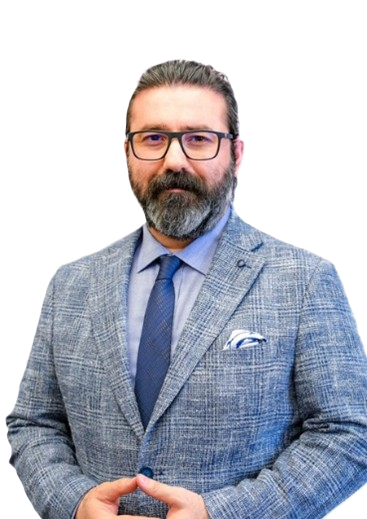
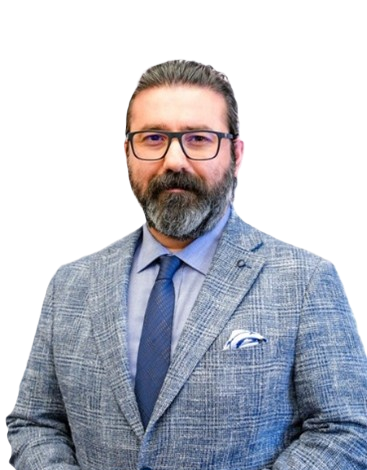
changed social links in the footer + minor changes

diff --git a/partners.html b/partners.html
@@ -175,7 +175,7 @@
                 <div class="partner-card" data-partner="padova">
                     <div class="partner-card-header">
                         <div class="partner-card-logo">
-                            <img src="images/partners/padova logo only.png" alt="University of Padova">
+                            <img src="images/partners/padova logo crop.png" alt="University of Padova">
                         </div>
                         <div class="partner-card-title">
                             <h3>University of Padova</h3>
@@ -508,8 +508,10 @@
                                         <div class="member-bio">
                                             <h5>Prof. M. Sami Okumus</h5>
                                             <!--<p>Assoc. Prof. Dr. M. Sami Okumus is an academic and filmmaker working at the intersection of communication theory and visual storytelling. He holds a BA in Public Relations from Istanbul Bilgi University (2011) and an MA (2016) and PhD (2020) in Radio, Television, and Cinema from Marmara University. Since 2017, he has been a faculty member at Marmara University, combining research and administrative roles with professional work as a producer/director in cinema and documentary. Within Edu-GArD3n, he leads Media Studies for the Marmara University partner team, overseeing visual communication and design to translate project outcomes into engaging, globally accessible media content.</p>-->
-                                            <p>Assoc. Prof. Dr. M. Sami Okumus is an academic and filmmaker working at the intersection of communication theory and visual storytelling. He holds a BA in Public Relations from Istanbul Bilgi University (2011) and an MA (2016) and PhD (2020) in Radio, Television, and Cinema from Marmara University. Since 2017, he has been a faculty member at Marmara University, combining academic research and administrative roles with professional work as a producer and director in cinema and documentary filmmaking.<br>
-                                                Within the Edu-GArD3n project, he leads Media Studies and Visual Communication Design for the Marmara University partner team, overseeing the strategic development of visual communication to translate complex scientific outputs into engaging, visually effective, and globally accessible media content.</p>
+                                            <!--<p>Assoc. Prof. Dr. M. Sami Okumus is an academic and filmmaker working at the intersection of communication theory and visual storytelling. He holds a BA in Public Relations from Istanbul Bilgi University (2011) and an MA (2016) and PhD (2020) in Radio, Television, and Cinema from Marmara University. Since 2017, he has been a faculty member at Marmara University, combining academic research and administrative roles with professional work as a producer and director in cinema and documentary filmmaking.<br>
+                                                Within the Edu-GArD3n project, he leads Media Studies and Visual Communication Design for the Marmara University partner team, overseeing the strategic development of visual communication to translate complex scientific outputs into engaging, visually effective, and globally accessible media content.</p>-->
+                                            <p>Okumus is an academic (Ph.D. in television, docent in cinema), film producer, and director specializing in cinema and documentary filmmaking, who bridges the gap between communication theory and creative practice as the lead of media studies, and visual communication design in the Edu-GArD3n project.
+                                                He oversees the strategic development of visual communication and design, ensuring the project’s objectives are effectively translated into impactful media content that the project’s outputs are not only scientifically sound but also visually engaging for a global audience. His work harmonizes complex academic data with clear, fostering greater engagement with the project’s green initiatives.</p>
                                         </div>
                                     </div>
                                     <div class="member-details">
@@ -613,8 +615,8 @@
         <div class="container">
             <div class="footer-top">
                 <div class="social-links">
-                    <a href="https://www.instagram.com/" target="_blank" rel="noopener noreferrer" aria-label="Instagram" class="instagram"><img src="images/instagram.png" alt="Instagram"></a>
-                    <a href="https://www.linkedin.com/" target="_blank" rel="noopener noreferrer" aria-label="LinkedIn" class="linkedin"><img src="images/linkedin_white.png" alt="LinkedIn"></a>
+                    <a href="https://www.instagram.com/edugard3n/" target="_blank" rel="noopener noreferrer" aria-label="Instagram" class="instagram"><img src="images/instagram.png" alt="Instagram"></a>
+                    <a href="https://www.linkedin.com/company/edu-gard3n/" target="_blank" rel="noopener noreferrer" aria-label="LinkedIn" class="linkedin"><img src="images/linkedin_white.png" alt="LinkedIn"></a>
                 </div>
                 <div class="funded">
                     <!-- EU funding band with flag
@@ -761,7 +763,7 @@
                     {
                         name: 'University of Padova',
                         coords: [45.4064, 11.8768],
-                        logo: 'images/partners/padova logo only.png',
+                        logo: 'images/partners/padova logo crop.png',
                         rotation: 0
                     },
                     {

diff --git a/index.html b/index.html
@@ -149,7 +149,7 @@
                     <div class="photo-wrapper">
                         <img src="images/people/Roman Perez Antonanzas.png" alt="Román Pérez Antoñanzas">
                         <div class="bio">
-                            <h4>Dr. Román Pérez Antoñanzas</h4>
+                            <h4>Prof. Román Pérez Antoñanzas</h4>
                             <p>As a result of Edu-GArD3n, new insights on how additive manufacturing supports waste reduction and sustainability will be taught, promoting more efficient material use and responsible manufacturing practices.</p>
                         </div>
                     </div>
@@ -221,7 +221,7 @@
                     <p class="partner-name">Brno University of Technology</p>
                 </div>
                 <div class="partner-logo">
-                    <a href="https://www.unipd.it/en/" target="_blank" rel="noopener noreferrer"><img src="images/partners/padova logo only.png" alt="Partner 2"></a>
+                    <a href="https://www.unipd.it/en/" target="_blank" rel="noopener noreferrer"><img src="images/partners/padova logo crop.png" alt="Partner 2"></a>
                     <p class="partner-name">University of Padova</p>
                 </div>
                 <div class="partner-logo">
@@ -245,8 +245,8 @@
         <div class="container">
             <div class="footer-top">
                 <div class="social-links">
-                    <a href="https://www.instagram.com/" target="_blank" rel="noopener noreferrer" aria-label="Instagram" class="instagram"><img src="images/instagram.png" alt="Instagram"></a>
-                    <a href="https://www.linkedin.com/" target="_blank" rel="noopener noreferrer" aria-label="LinkedIn" class="linkedin"><img src="images/linkedin_white.png" alt="LinkedIn"></a>
+                    <a href="https://www.instagram.com/edugard3n/" target="_blank" rel="noopener noreferrer" aria-label="Instagram" class="instagram"><img src="images/instagram.png" alt="Instagram"></a>
+                    <a href="https://www.linkedin.com/company/edu-gard3n/" target="_blank" rel="noopener noreferrer" aria-label="LinkedIn" class="linkedin"><img src="images/linkedin_white.png" alt="LinkedIn"></a>
                 </div>
                 <div class="funded">
                     <!-- EU funding band with flag

diff --git a/contact.html b/contact.html
@@ -119,8 +119,8 @@
         <div class="container">
             <div class="footer-top">
                 <div class="social-links">
-                    <a href="https://www.instagram.com/" target="_blank" rel="noopener noreferrer" aria-label="Instagram" class="instagram"><img src="images/instagram.png" alt="Instagram"></a>
-                    <a href="https://www.linkedin.com/" target="_blank" rel="noopener noreferrer" aria-label="LinkedIn" class="linkedin"><img src="images/linkedin_white.png" alt="LinkedIn"></a>
+                    <a href="https://www.instagram.com/edugard3n/" target="_blank" rel="noopener noreferrer" aria-label="Instagram" class="instagram"><img src="images/instagram.png" alt="Instagram"></a>
+                    <a href="https://www.linkedin.com/company/edu-gard3n/" target="_blank" rel="noopener noreferrer" aria-label="LinkedIn" class="linkedin"><img src="images/linkedin_white.png" alt="LinkedIn"></a>
                 </div>
                 <div class="funded">
                     <!-- EU funding band with flag

diff --git a/event-detail.html b/event-detail.html
@@ -235,8 +235,8 @@
         <div class="container">
             <div class="footer-top">
                 <div class="social-links">
-                    <a href="https://www.instagram.com/" target="_blank" rel="noopener noreferrer" aria-label="Instagram" class="instagram"><img src="images/instagram.png" alt="Instagram"></a>
-                    <a href="https://www.linkedin.com/" target="_blank" rel="noopener noreferrer" aria-label="LinkedIn" class="linkedin"><img src="images/linkedin_white.png" alt="LinkedIn"></a>
+                    <a href="https://www.instagram.com/edugard3n/" target="_blank" rel="noopener noreferrer" aria-label="Instagram" class="instagram"><img src="images/instagram.png" alt="Instagram"></a>
+                    <a href="https://www.linkedin.com/company/edu-gard3n/" target="_blank" rel="noopener noreferrer" aria-label="LinkedIn" class="linkedin"><img src="images/linkedin_white.png" alt="LinkedIn"></a>
                 </div>
                 <div class="funded">
                     <!-- EU funding band with flag

diff --git a/news-detail.html b/news-detail.html
@@ -270,8 +270,8 @@
         <div class="container">
             <div class="footer-top">
                 <div class="social-links">
-                    <a href="https://www.instagram.com/" target="_blank" rel="noopener noreferrer" aria-label="Instagram" class="instagram"><img src="images/instagram.png" alt="Instagram"></a>
-                    <a href="https://www.linkedin.com/" target="_blank" rel="noopener noreferrer" aria-label="LinkedIn" class="linkedin"><img src="images/linkedin_white.png" alt="LinkedIn"></a>
+                    <a href="https://www.instagram.com/edugard3n/" target="_blank" rel="noopener noreferrer" aria-label="Instagram" class="instagram"><img src="images/instagram.png" alt="Instagram"></a>
+                    <a href="https://www.linkedin.com/company/edu-gard3n/" target="_blank" rel="noopener noreferrer" aria-label="LinkedIn" class="linkedin"><img src="images/linkedin_white.png" alt="LinkedIn"></a>
                 </div>
                 <div class="funded">
                     <!-- EU funding band with flag

diff --git a/news.html b/news.html
@@ -115,8 +115,8 @@
         <div class="container">
             <div class="footer-top">
                 <div class="social-links">
-                    <a href="https://www.instagram.com/" target="_blank" rel="noopener noreferrer" aria-label="Instagram" class="instagram"><img src="images/instagram.png" alt="Instagram"></a>
-                    <a href="https://www.linkedin.com/" target="_blank" rel="noopener noreferrer" aria-label="LinkedIn" class="linkedin"><img src="images/linkedin_white.png" alt="LinkedIn"></a>
+                    <a href="https://www.instagram.com/edugard3n/" target="_blank" rel="noopener noreferrer" aria-label="Instagram" class="instagram"><img src="images/instagram.png" alt="Instagram"></a>
+                    <a href="https://www.linkedin.com/company/edu-gard3n/" target="_blank" rel="noopener noreferrer" aria-label="LinkedIn" class="linkedin"><img src="images/linkedin_white.png" alt="LinkedIn"></a>
                 </div>
                 <div class="funded">
                     <!-- EU funding band with flag

diff --git a/project.html b/project.html
@@ -220,8 +220,8 @@
         <div class="container">
             <div class="footer-top">
                 <div class="social-links">
-                    <a href="https://www.instagram.com/" target="_blank" rel="noopener noreferrer" aria-label="Instagram" class="instagram"><img src="images/instagram.png" alt="Instagram"></a>
-                    <a href="https://www.linkedin.com/" target="_blank" rel="noopener noreferrer" aria-label="LinkedIn" class="linkedin"><img src="images/linkedin_white.png" alt="LinkedIn"></a>
+                    <a href="https://www.instagram.com/edugard3n/" target="_blank" rel="noopener noreferrer" aria-label="Instagram" class="instagram"><img src="images/instagram.png" alt="Instagram"></a>
+                    <a href="https://www.linkedin.com/company/edu-gard3n/" target="_blank" rel="noopener noreferrer" aria-label="LinkedIn" class="linkedin"><img src="images/linkedin_white.png" alt="LinkedIn"></a>
                 </div>
                 <div class="funded">
                     <!-- EU funding band with flag

diff --git a/events.html b/events.html
@@ -72,8 +72,8 @@
         <div class="container">
             <div class="footer-top">
                 <div class="social-links">
-                    <a href="https://www.instagram.com/" target="_blank" rel="noopener noreferrer" aria-label="Instagram" class="instagram"><img src="images/instagram.png" alt="Instagram"></a>
-                    <a href="https://www.linkedin.com/" target="_blank" rel="noopener noreferrer" aria-label="LinkedIn" class="linkedin"><img src="images/linkedin_white.png" alt="LinkedIn"></a>
+                    <a href="https://www.instagram.com/edugard3n/" target="_blank" rel="noopener noreferrer" aria-label="Instagram" class="instagram"><img src="images/instagram.png" alt="Instagram"></a>
+                    <a href="https://www.linkedin.com/company/edu-gard3n/" target="_blank" rel="noopener noreferrer" aria-label="LinkedIn" class="linkedin"><img src="images/linkedin_white.png" alt="LinkedIn"></a>
                 </div>
                 <div class="funded">
                     <!-- EU funding band with flag

diff --git a/login.html b/login.html
@@ -86,8 +86,8 @@
         <div class="container">
             <div class="footer-top">
                 <div class="social-links">
-                    <a href="https://www.instagram.com/" target="_blank" rel="noopener noreferrer" aria-label="Instagram" class="instagram"><img src="images/instagram.png" alt="Instagram"></a>
-                    <a href="https://www.linkedin.com/" target="_blank" rel="noopener noreferrer" aria-label="LinkedIn" class="linkedin"><img src="images/linkedin_white.png" alt="LinkedIn"></a>
+                    <a href="https://www.instagram.com/edugard3n/" target="_blank" rel="noopener noreferrer" aria-label="Instagram" class="instagram"><img src="images/instagram.png" alt="Instagram"></a>
+                    <a href="https://www.linkedin.com/company/edu-gard3n/" target="_blank" rel="noopener noreferrer" aria-label="LinkedIn" class="linkedin"><img src="images/linkedin_white.png" alt="LinkedIn"></a>
                 </div>
                 <div class="funded">
                     <!-- EU funding band with flag

diff --git a/signup.html b/signup.html
@@ -86,8 +86,8 @@
         <div class="container">
             <div class="footer-top">
                 <div class="social-links">
-                    <a href="https://www.instagram.com/" target="_blank" rel="noopener noreferrer" aria-label="Instagram" class="instagram"><img src="images/instagram.png" alt="Instagram"></a>
-                    <a href="https://www.linkedin.com/" target="_blank" rel="noopener noreferrer" aria-label="LinkedIn" class="linkedin"><img src="images/linkedin_white.png" alt="LinkedIn"></a>
+                    <a href="https://www.instagram.com/edugard3n/" target="_blank" rel="noopener noreferrer" aria-label="Instagram" class="instagram"><img src="images/instagram.png" alt="Instagram"></a>
+                    <a href="https://www.linkedin.com/company/edu-gard3n/" target="_blank" rel="noopener noreferrer" aria-label="LinkedIn" class="linkedin"><img src="images/linkedin_white.png" alt="LinkedIn"></a>
                 </div>
                 <div class="funded">
                     <!-- EU funding band with flag
